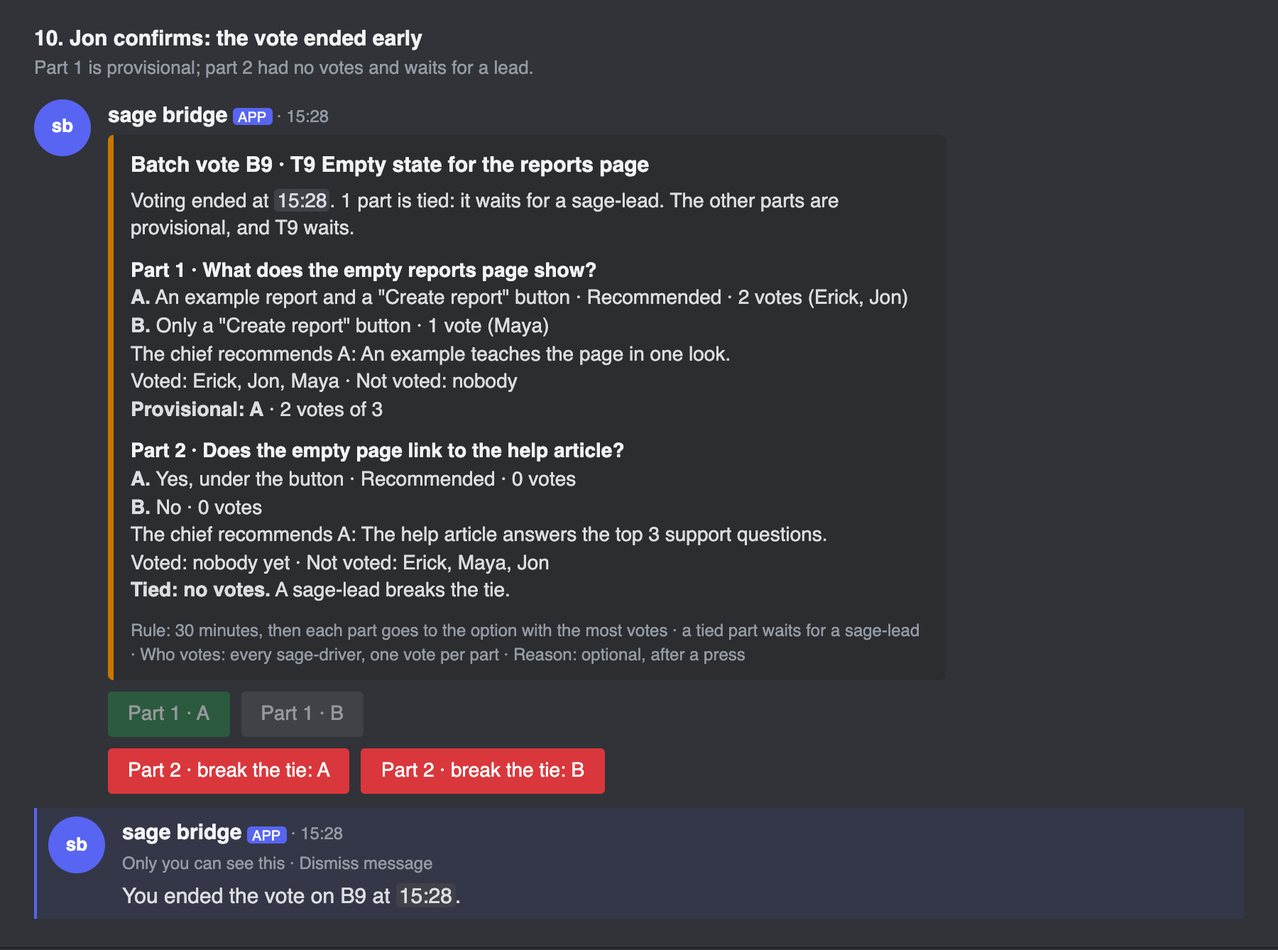
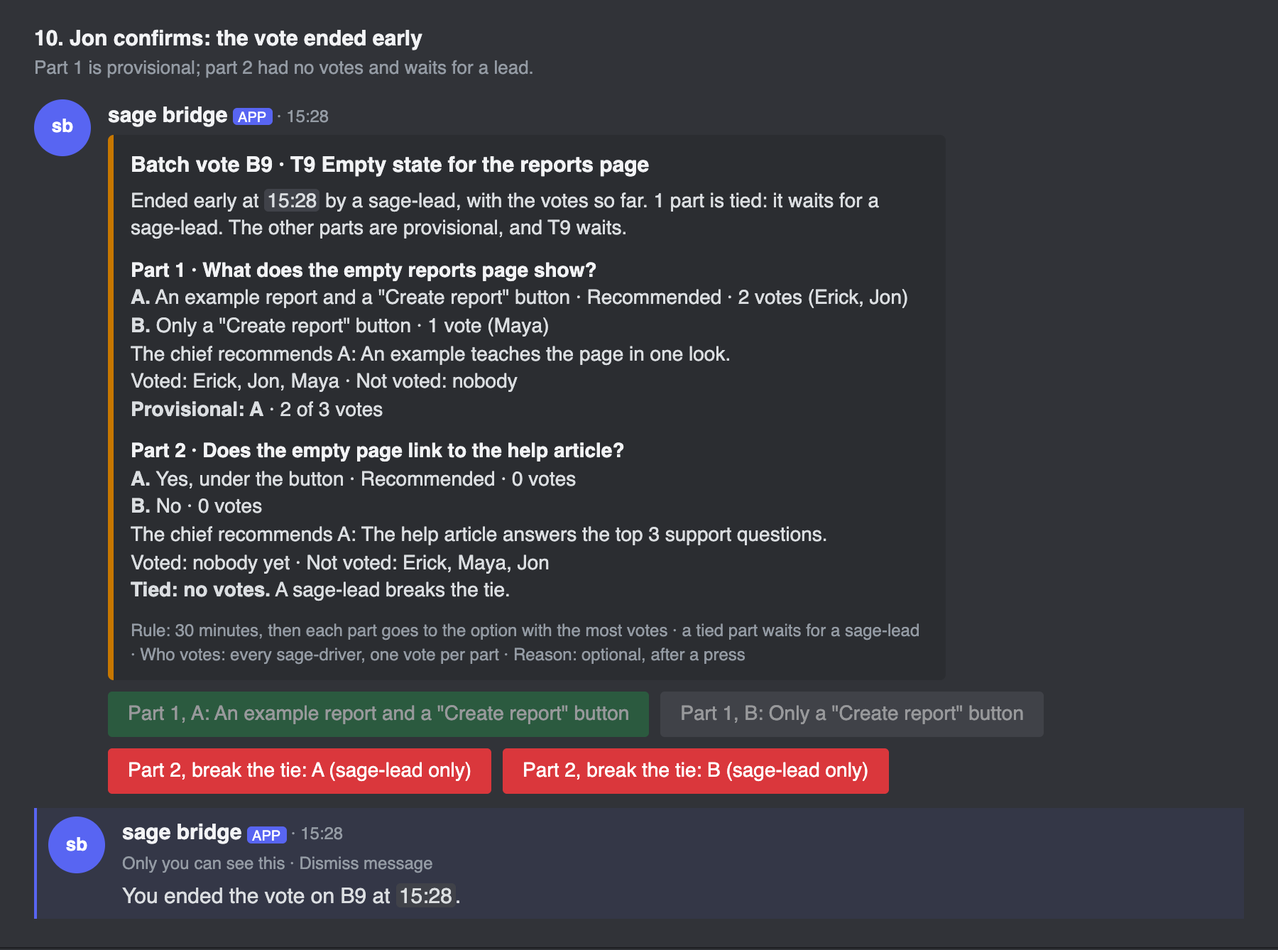
B2 preview: the confirm presses come from the private confirm; a 12th shot of a 5 x 4 x 500 card (F-T27-9)
Claude-Session: https://claude.ai/code/session_01AfkEgEcPqSXRfaYvh8fqJK

diff --git a/design/b2/index.html b/design/b2/index.html
@@ -32,50 +32,55 @@
 <section id="m3"><h2>3. The batch vote of a task</h2><p class="about">18 minutes left; Erick voted at his terminal; Jon gave a reason.</p><div class="msg"><span class="av">sb</span><div class="body"><div class="meta"><b>sage bridge</b> <span class="app">APP</span> · 14:43</div>
   <div class="embed" style="border-color:#6b4fd8"><div class="title">Batch vote B7 · T7 CSV export for reports</div><div class="desc">3 product questions of T7. Vote on each part; change your vote until the vote ends. Closes at <time>15:01</time> (<time>in 18 minutes</time>).</div>
   <div class="field"><div class="fname">Part 1 · Which columns go in the export?</div><div class="fvalue"><b>A.</b> Only the columns visible in the table · Recommended · 2 votes (Erick (terminal), Jon)<br><b>B.</b> All fields, also the hidden ones · 0 votes<br><b>C.</b> Visible columns, plus an &quot;Include hidden fields&quot; box · 0 votes<br>The chief recommends A: A matches what the user sees; B can leak internal ids.<br>Voted: Erick (terminal), Jon · Not voted: Maya<br>Ahead: A</div></div><div class="field"><div class="fname">Part 2 · How do dates look in the file?</div><div class="fvalue"><b>A.</b> 2026-10-04 (ISO) · Recommended · 1 vote (Erick (terminal))<br><b>B.</b> 04/10/2026 (the user's locale) · 1 vote (Jon)<br><b>C.</b> Both, in two columns · 0 votes<br>The chief recommends A: A sorts well and every spreadsheet reads it.<br>Voted: Erick (terminal), Jon · Not voted: Maya<br>Even so far</div></div><div class="field"><div class="fname">Part 3 · What is the file name?</div><div class="fvalue"><b>A.</b> reports-2026-10-04.csv · Recommended · 1 vote (Erick (terminal))<br><b>B.</b> The report title and the date · 1 vote (Jon)<br>The chief recommends A: A is short and sorts by date.<br>Voted: Erick (terminal), Jon · Not voted: Maya<br>Even so far</div></div><div class="field"><div class="fname">Jon, part 2</div><div class="fvalue">Our EU customers read day/month first.</div></div>
-  <div class="footer">Rule: 30 minutes, then each part goes to the option with the most votes · a tied part waits for a sage-lead · Who votes: every sage-driver, one vote per part · Reason: optional, after a press</div></div><div class="row"><button class="primary" title="press:B7:0:0">Part 1 · A</button><button class="secondary" title="press:B7:0:1">Part 1 · B</button><button class="secondary" title="press:B7:0:2">Part 1 · C</button></div><div class="row"><button class="primary" title="press:B7:1:0">Part 2 · A</button><button class="secondary" title="press:B7:1:1">Part 2 · B</button><button class="secondary" title="press:B7:1:2">Part 2 · C</button></div><div class="row"><button class="primary" title="press:B7:2:0">Part 3 · A</button><button class="secondary" title="press:B7:2:1">Part 3 · B</button></div><div class="row"><button class="danger" title="end:B7">End vote now (sage-lead only)</button></div></div></div>
+  <div class="footer">Rule: 30 minutes, then each part goes to the option with the most votes · a tied part waits for a sage-lead · Who votes: every sage-driver, one vote per part · Reason: optional, after a press</div></div><div class="row"><button class="primary" title="press:B7:0:0">Part 1, A: Only the columns visible in the table</button><button class="secondary" title="press:B7:0:1">Part 1, B: All fields, also the hidden ones</button><button class="secondary" title="press:B7:0:2">Part 1, C: Visible columns, plus an &quot;Include hidden fields&quot; box</button></div><div class="row"><button class="primary" title="press:B7:1:0">Part 2, A: 2026-10-04 (ISO)</button><button class="secondary" title="press:B7:1:1">Part 2, B: 04/10/2026 (the user's locale)</button><button class="secondary" title="press:B7:1:2">Part 2, C: Both, in two columns</button></div><div class="row"><button class="primary" title="press:B7:2:0">Part 3, A: reports-2026-10-04.csv</button><button class="secondary" title="press:B7:2:1">Part 3, B: The report title and the date</button></div><div class="row"><button class="danger" title="end:B7">End vote now (sage-lead only)</button></div></div></div>
 </section>
 <section id="m4"><h2>4. Maya votes C on part 2 and may add a reason</h2><p class="about">Her vote counts already; the form is optional.</p><div class="msg"><span class="av">sb</span><div class="body"><div class="meta"><b>sage bridge</b> <span class="app">APP</span> · 14:44</div>
   <div class="embed" style="border-color:#6b4fd8"><div class="title">Batch vote B7 · T7 CSV export for reports</div><div class="desc">3 product questions of T7. Vote on each part; change your vote until the vote ends. Closes at <time>15:01</time> (<time>in 17 minutes</time>).</div>
   <div class="field"><div class="fname">Part 1 · Which columns go in the export?</div><div class="fvalue"><b>A.</b> Only the columns visible in the table · Recommended · 2 votes (Erick (terminal), Jon)<br><b>B.</b> All fields, also the hidden ones · 0 votes<br><b>C.</b> Visible columns, plus an &quot;Include hidden fields&quot; box · 0 votes<br>The chief recommends A: A matches what the user sees; B can leak internal ids.<br>Voted: Erick (terminal), Jon · Not voted: Maya<br>Ahead: A</div></div><div class="field"><div class="fname">Part 2 · How do dates look in the file?</div><div class="fvalue"><b>A.</b> 2026-10-04 (ISO) · Recommended · 1 vote (Erick (terminal))<br><b>B.</b> 04/10/2026 (the user's locale) · 1 vote (Jon)<br><b>C.</b> Both, in two columns · 1 vote (Maya)<br>The chief recommends A: A sorts well and every spreadsheet reads it.<br>Voted: Erick (terminal), Jon, Maya · Not voted: nobody<br>Even so far</div></div><div class="field"><div class="fname">Part 3 · What is the file name?</div><div class="fvalue"><b>A.</b> reports-2026-10-04.csv · Recommended · 1 vote (Erick (terminal))<br><b>B.</b> The report title and the date · 1 vote (Jon)<br>The chief recommends A: A is short and sorts by date.<br>Voted: Erick (terminal), Jon · Not voted: Maya<br>Even so far</div></div><div class="field"><div class="fname">Jon, part 2</div><div class="fvalue">Our EU customers read day/month first.</div></div>
-  <div class="footer">Rule: 30 minutes, then each part goes to the option with the most votes · a tied part waits for a sage-lead · Who votes: every sage-driver, one vote per part · Reason: optional, after a press</div></div><div class="row"><button class="primary" title="press:B7:0:0">Part 1 · A</button><button class="secondary" title="press:B7:0:1">Part 1 · B</button><button class="secondary" title="press:B7:0:2">Part 1 · C</button></div><div class="row"><button class="primary" title="press:B7:1:0">Part 2 · A</button><button class="secondary" title="press:B7:1:1">Part 2 · B</button><button class="secondary" title="press:B7:1:2">Part 2 · C</button></div><div class="row"><button class="primary" title="press:B7:2:0">Part 3 · A</button><button class="secondary" title="press:B7:2:1">Part 3 · B</button></div><div class="row"><button class="danger" title="end:B7">End vote now (sage-lead only)</button></div></div></div>
+  <div class="footer">Rule: 30 minutes, then each part goes to the option with the most votes · a tied part waits for a sage-lead · Who votes: every sage-driver, one vote per part · Reason: optional, after a press</div></div><div class="row"><button class="primary" title="press:B7:0:0">Part 1, A: Only the columns visible in the table</button><button class="secondary" title="press:B7:0:1">Part 1, B: All fields, also the hidden ones</button><button class="secondary" title="press:B7:0:2">Part 1, C: Visible columns, plus an &quot;Include hidden fields&quot; box</button></div><div class="row"><button class="primary" title="press:B7:1:0">Part 2, A: 2026-10-04 (ISO)</button><button class="secondary" title="press:B7:1:1">Part 2, B: 04/10/2026 (the user's locale)</button><button class="secondary" title="press:B7:1:2">Part 2, C: Both, in two columns</button></div><div class="row"><button class="primary" title="press:B7:2:0">Part 3, A: reports-2026-10-04.csv</button><button class="secondary" title="press:B7:2:1">Part 3, B: The report title and the date</button></div><div class="row"><button class="danger" title="end:B7">End vote now (sage-lead only)</button></div></div></div>
 <div class="modal"><h3>Your vote counts: C. Both, in two columns</h3><label>Reason for part 2 (optional)<textarea placeholder="Everyone sees it on the card. The chief gets it as quoted text and sums up the arguments." maxlength="500"></textarea></label><div class="mbtns"><span>Cancel</span><button class="primary">Submit</button></div></div></section>
 <section id="m5"><h2>5. At 30 minutes the vote ends; part 2 is tied 1-1-1</h2><p class="about">Parts 1 and 3 are provisional; the tie-break buttons show the tied options only.</p><div class="msg"><span class="av">sb</span><div class="body"><div class="meta"><b>sage bridge</b> <span class="app">APP</span> · 15:01</div>
   <div class="embed" style="border-color:#c77700"><div class="title">Batch vote B7 · T7 CSV export for reports</div><div class="desc">Voting ended at <time>15:01</time>. 1 part is tied: it waits for a sage-lead. The other parts are provisional, and T7 waits.</div>
-  <div class="field"><div class="fname">Part 1 · Which columns go in the export?</div><div class="fvalue"><b>A.</b> Only the columns visible in the table · Recommended · 3 votes (Erick (terminal), Jon, Maya)<br><b>B.</b> All fields, also the hidden ones · 0 votes<br><b>C.</b> Visible columns, plus an &quot;Include hidden fields&quot; box · 0 votes<br>The chief recommends A: A matches what the user sees; B can leak internal ids.<br>Voted: Erick (terminal), Jon, Maya · Not voted: nobody<br><b>Provisional: A</b> · 3 votes of 3</div></div><div class="field"><div class="fname">Part 2 · How do dates look in the file?</div><div class="fvalue"><b>A.</b> 2026-10-04 (ISO) · Recommended · 1 vote (Erick (terminal))<br><b>B.</b> 04/10/2026 (the user's locale) · 1 vote (Jon)<br><b>C.</b> Both, in two columns · 1 vote (Maya)<br>The chief recommends A: A sorts well and every spreadsheet reads it.<br>Voted: Erick (terminal), Jon, Maya · Not voted: nobody<br><b>Tied: A, B, C at 1 vote each.</b> A sage-lead breaks the tie.</div></div><div class="field"><div class="fname">Part 3 · What is the file name?</div><div class="fvalue"><b>A.</b> reports-2026-10-04.csv · Recommended · 2 votes (Erick (terminal), Maya)<br><b>B.</b> The report title and the date · 1 vote (Jon)<br>The chief recommends A: A is short and sorts by date.<br>Voted: Erick (terminal), Jon, Maya · Not voted: nobody<br><b>Provisional: A</b> · 2 votes of 3</div></div><div class="field"><div class="fname">Jon, part 2</div><div class="fvalue">Our EU customers read day/month first.</div></div><div class="field"><div class="fname">Maya, part 2</div><div class="fvalue">Finance imports ISO dates; sales wants the local format. Both serve them.</div></div>
-  <div class="footer">Rule: 30 minutes, then each part goes to the option with the most votes · a tied part waits for a sage-lead · Who votes: every sage-driver, one vote per part · Reason: optional, after a press</div></div><div class="row"><button class="success" disabled title="press:B7:0:0">Part 1 · A</button><button class="secondary" disabled title="press:B7:0:1">Part 1 · B</button><button class="secondary" disabled title="press:B7:0:2">Part 1 · C</button></div><div class="row"><button class="danger" title="tiebreak:B7:1:0">Part 2 · break the tie: A</button><button class="danger" title="tiebreak:B7:1:1">Part 2 · break the tie: B</button><button class="danger" title="tiebreak:B7:1:2">Part 2 · break the tie: C</button></div><div class="row"><button class="success" disabled title="press:B7:2:0">Part 3 · A</button><button class="secondary" disabled title="press:B7:2:1">Part 3 · B</button></div></div></div>
+  <div class="field"><div class="fname">Part 1 · Which columns go in the export?</div><div class="fvalue"><b>A.</b> Only the columns visible in the table · Recommended · 3 votes (Erick (terminal), Jon, Maya)<br><b>B.</b> All fields, also the hidden ones · 0 votes<br><b>C.</b> Visible columns, plus an &quot;Include hidden fields&quot; box · 0 votes<br>The chief recommends A: A matches what the user sees; B can leak internal ids.<br>Voted: Erick (terminal), Jon, Maya · Not voted: nobody<br><b>Provisional: A</b> · 3 of 3 votes</div></div><div class="field"><div class="fname">Part 2 · How do dates look in the file?</div><div class="fvalue"><b>A.</b> 2026-10-04 (ISO) · Recommended · 1 vote (Erick (terminal))<br><b>B.</b> 04/10/2026 (the user's locale) · 1 vote (Jon)<br><b>C.</b> Both, in two columns · 1 vote (Maya)<br>The chief recommends A: A sorts well and every spreadsheet reads it.<br>Voted: Erick (terminal), Jon, Maya · Not voted: nobody<br><b>Tied: A, B, C at 1 vote each.</b> A sage-lead breaks the tie.</div></div><div class="field"><div class="fname">Part 3 · What is the file name?</div><div class="fvalue"><b>A.</b> reports-2026-10-04.csv · Recommended · 2 votes (Erick (terminal), Maya)<br><b>B.</b> The report title and the date · 1 vote (Jon)<br>The chief recommends A: A is short and sorts by date.<br>Voted: Erick (terminal), Jon, Maya · Not voted: nobody<br><b>Provisional: A</b> · 2 of 3 votes</div></div><div class="field"><div class="fname">Jon, part 2</div><div class="fvalue">Our EU customers read day/month first.</div></div><div class="field"><div class="fname">Maya, part 2</div><div class="fvalue">Finance imports ISO dates; sales wants the local format. Both serve them.</div></div>
+  <div class="footer">Rule: 30 minutes, then each part goes to the option with the most votes · a tied part waits for a sage-lead · Who votes: every sage-driver, one vote per part · Reason: optional, after a press</div></div><div class="row"><button class="success" disabled title="press:B7:0:0">Part 1, A: Only the columns visible in the table</button><button class="secondary" disabled title="press:B7:0:1">Part 1, B: All fields, also the hidden ones</button><button class="secondary" disabled title="press:B7:0:2">Part 1, C: Visible columns, plus an &quot;Include hidden fields&quot; box</button></div><div class="row"><button class="danger" title="tiebreak:B7:1:0">Part 2, break the tie: A (sage-lead only)</button><button class="danger" title="tiebreak:B7:1:1">Part 2, break the tie: B (sage-lead only)</button><button class="danger" title="tiebreak:B7:1:2">Part 2, break the tie: C (sage-lead only)</button></div><div class="row"><button class="success" disabled title="press:B7:2:0">Part 3, A: reports-2026-10-04.csv</button><button class="secondary" disabled title="press:B7:2:1">Part 3, B: The report title and the date</button></div></div></div>
 </section>
 <section id="m6"><h2>6. Jon, a lead, breaks the tie: the batch is decided</h2><p class="about">Every part is decided; T7 goes on.</p><div class="msg"><span class="av">sb</span><div class="body"><div class="meta"><b>sage bridge</b> <span class="app">APP</span> · 17:05</div>
   <div class="embed" style="border-color:#2e8b57"><div class="title">Batch vote B7 · T7 CSV export for reports</div><div class="desc">Voting ended at <time>15:01</time>. Closed: every part is decided. T7 goes on.</div>
-  <div class="field"><div class="fname">Part 1 · Which columns go in the export?</div><div class="fvalue"><b>A.</b> Only the columns visible in the table · Recommended · 3 votes (Erick (terminal), Jon, Maya)<br><b>B.</b> All fields, also the hidden ones · 0 votes<br><b>C.</b> Visible columns, plus an &quot;Include hidden fields&quot; box · 0 votes<br>The chief recommends A: A matches what the user sees; B can leak internal ids.<br>Voted: Erick (terminal), Jon, Maya · Not voted: nobody<br><b>Decided: A</b> · 3 votes of 3</div></div><div class="field"><div class="fname">Part 2 · How do dates look in the file?</div><div class="fvalue"><b>A.</b> 2026-10-04 (ISO) · Recommended · 1 vote (Erick (terminal))<br><b>B.</b> 04/10/2026 (the user's locale) · 1 vote (Jon)<br><b>C.</b> Both, in two columns · 1 vote (Maya)<br>The chief recommends A: A sorts well and every spreadsheet reads it.<br>Voted: Erick (terminal), Jon, Maya · Not voted: nobody<br><b>Decided: A</b> · tie broken by a sage-lead</div></div><div class="field"><div class="fname">Part 3 · What is the file name?</div><div class="fvalue"><b>A.</b> reports-2026-10-04.csv · Recommended · 2 votes (Erick (terminal), Maya)<br><b>B.</b> The report title and the date · 1 vote (Jon)<br>The chief recommends A: A is short and sorts by date.<br>Voted: Erick (terminal), Jon, Maya · Not voted: nobody<br><b>Decided: A</b> · 2 votes of 3</div></div><div class="field"><div class="fname">Jon, part 2</div><div class="fvalue">Our EU customers read day/month first.</div></div><div class="field"><div class="fname">Maya, part 2</div><div class="fvalue">Finance imports ISO dates; sales wants the local format. Both serve them.</div></div>
-  <div class="footer">Rule: 30 minutes, then each part goes to the option with the most votes · a tied part waits for a sage-lead · Who votes: every sage-driver, one vote per part · Reason: optional, after a press</div></div><div class="row"><button class="success" disabled title="press:B7:0:0">Part 1 · A</button><button class="secondary" disabled title="press:B7:0:1">Part 1 · B</button><button class="secondary" disabled title="press:B7:0:2">Part 1 · C</button></div><div class="row"><button class="success" disabled title="press:B7:1:0">Part 2 · A</button><button class="secondary" disabled title="press:B7:1:1">Part 2 · B</button><button class="secondary" disabled title="press:B7:1:2">Part 2 · C</button></div><div class="row"><button class="success" disabled title="press:B7:2:0">Part 3 · A</button><button class="secondary" disabled title="press:B7:2:1">Part 3 · B</button></div></div></div>
+  <div class="field"><div class="fname">Part 1 · Which columns go in the export?</div><div class="fvalue"><b>A.</b> Only the columns visible in the table · Recommended · 3 votes (Erick (terminal), Jon, Maya)<br><b>B.</b> All fields, also the hidden ones · 0 votes<br><b>C.</b> Visible columns, plus an &quot;Include hidden fields&quot; box · 0 votes<br>The chief recommends A: A matches what the user sees; B can leak internal ids.<br>Voted: Erick (terminal), Jon, Maya · Not voted: nobody<br><b>Decided: A</b> · 3 of 3 votes</div></div><div class="field"><div class="fname">Part 2 · How do dates look in the file?</div><div class="fvalue"><b>A.</b> 2026-10-04 (ISO) · Recommended · 1 vote (Erick (terminal))<br><b>B.</b> 04/10/2026 (the user's locale) · 1 vote (Jon)<br><b>C.</b> Both, in two columns · 1 vote (Maya)<br>The chief recommends A: A sorts well and every spreadsheet reads it.<br>Voted: Erick (terminal), Jon, Maya · Not voted: nobody<br><b>Decided: A</b> · tie broken by a sage-lead</div></div><div class="field"><div class="fname">Part 3 · What is the file name?</div><div class="fvalue"><b>A.</b> reports-2026-10-04.csv · Recommended · 2 votes (Erick (terminal), Maya)<br><b>B.</b> The report title and the date · 1 vote (Jon)<br>The chief recommends A: A is short and sorts by date.<br>Voted: Erick (terminal), Jon, Maya · Not voted: nobody<br><b>Decided: A</b> · 2 of 3 votes</div></div><div class="field"><div class="fname">Jon, part 2</div><div class="fvalue">Our EU customers read day/month first.</div></div><div class="field"><div class="fname">Maya, part 2</div><div class="fvalue">Finance imports ISO dates; sales wants the local format. Both serve them.</div></div>
+  <div class="footer">Rule: 30 minutes, then each part goes to the option with the most votes · a tied part waits for a sage-lead · Who votes: every sage-driver, one vote per part · Reason: optional, after a press</div></div><div class="row"><button class="success" disabled title="press:B7:0:0">Part 1, A: Only the columns visible in the table</button><button class="secondary" disabled title="press:B7:0:1">Part 1, B: All fields, also the hidden ones</button><button class="secondary" disabled title="press:B7:0:2">Part 1, C: Visible columns, plus an &quot;Include hidden fields&quot; box</button></div><div class="row"><button class="success" disabled title="press:B7:1:0">Part 2, A: 2026-10-04 (ISO)</button><button class="secondary" disabled title="press:B7:1:1">Part 2, B: 04/10/2026 (the user's locale)</button><button class="secondary" disabled title="press:B7:1:2">Part 2, C: Both, in two columns</button></div><div class="row"><button class="success" disabled title="press:B7:2:0">Part 3, A: reports-2026-10-04.csv</button><button class="secondary" disabled title="press:B7:2:1">Part 3, B: The report title and the date</button></div></div></div>
 </section>
 <section id="m7"><h2>7. Jon, a lead, presses End vote now</h2><p class="about">The private confirm says what each part gets with the votes so far.</p><div class="msg"><span class="av">sb</span><div class="body"><div class="meta"><b>sage bridge</b> <span class="app">APP</span> · 15:28</div>
   <div class="embed" style="border-color:#6b4fd8"><div class="title">Batch vote B9 · T9 Empty state for the reports page</div><div class="desc">2 product questions of T9. Vote on each part; change your vote until the vote ends. Closes at <time>15:40</time> (<time>in 12 minutes</time>).</div>
   <div class="field"><div class="fname">Part 1 · What does the empty reports page show?</div><div class="fvalue"><b>A.</b> An example report and a &quot;Create report&quot; button · Recommended · 2 votes (Erick, Jon)<br><b>B.</b> Only a &quot;Create report&quot; button · 1 vote (Maya)<br>The chief recommends A: An example teaches the page in one look.<br>Voted: Erick, Jon, Maya · Not voted: nobody<br>Ahead: A</div></div><div class="field"><div class="fname">Part 2 · Does the empty page link to the help article?</div><div class="fvalue"><b>A.</b> Yes, under the button · Recommended · 0 votes<br><b>B.</b> No · 0 votes<br>The chief recommends A: The help article answers the top 3 support questions.<br>Voted: nobody yet · Not voted: Erick, Maya, Jon<br>No votes yet</div></div>
-  <div class="footer">Rule: 30 minutes, then each part goes to the option with the most votes · a tied part waits for a sage-lead · Who votes: every sage-driver, one vote per part · Reason: optional, after a press</div></div><div class="row"><button class="primary" title="press:B9:0:0">Part 1 · A</button><button class="secondary" title="press:B9:0:1">Part 1 · B</button></div><div class="row"><button class="primary" title="press:B9:1:0">Part 2 · A</button><button class="secondary" title="press:B9:1:1">Part 2 · B</button></div><div class="row"><button class="danger" title="end:B9">End vote now (sage-lead only)</button></div></div></div>
+  <div class="footer">Rule: 30 minutes, then each part goes to the option with the most votes · a tied part waits for a sage-lead · Who votes: every sage-driver, one vote per part · Reason: optional, after a press</div></div><div class="row"><button class="primary" title="press:B9:0:0">Part 1, A: An example report and a &quot;Create report&quot; button</button><button class="secondary" title="press:B9:0:1">Part 1, B: Only a &quot;Create report&quot; button</button></div><div class="row"><button class="primary" title="press:B9:1:0">Part 2, A: Yes, under the button</button><button class="secondary" title="press:B9:1:1">Part 2, B: No</button></div><div class="row"><button class="danger" title="end:B9">End vote now (sage-lead only)</button></div></div></div>
 <div class="msg eph"><span class="av">sb</span><div class="body"><div class="meta"><b>sage bridge</b> <span class="app">APP</span> · 15:28</div>
-  <div class="ephnote">Only you can see this · Dismiss message</div><div><b>End B9 now?</b><br>Part 1 goes to A: 2 votes of 3 (Erick, Jon).<br>Part 2 has no votes. It stays open until a sage-lead breaks the tie.<br>Nobody can vote after this.</div><div class="row"><button class="danger" title="end!:B9">End vote now</button><button class="secondary" title="cancel:B9">Cancel</button></div></div></div></section>
+  <div class="ephnote">Only you can see this · Dismiss message</div><div><b>End B9 now?</b><br>Part 1 goes to A: 2 of 3 votes (Erick, Jon).<br>Part 2 has no votes. It stays open until a sage-lead breaks the tie.<br>Nobody can vote after this.</div><div class="row"><button class="secondary" title="cancel:B9">Cancel</button><button class="danger" title="end!:B9">End vote now</button></div></div></div></section>
 <section id="m8"><h2>8. Maya is not a lead and presses End vote now</h2><p class="about">Discord shows every button to everyone; only a lead can end the vote.</p><div class="msg"><span class="av">sb</span><div class="body"><div class="meta"><b>sage bridge</b> <span class="app">APP</span> · 15:28</div>
   <div class="embed" style="border-color:#6b4fd8"><div class="title">Batch vote B9 · T9 Empty state for the reports page</div><div class="desc">2 product questions of T9. Vote on each part; change your vote until the vote ends. Closes at <time>15:40</time> (<time>in 12 minutes</time>).</div>
   <div class="field"><div class="fname">Part 1 · What does the empty reports page show?</div><div class="fvalue"><b>A.</b> An example report and a &quot;Create report&quot; button · Recommended · 2 votes (Erick, Jon)<br><b>B.</b> Only a &quot;Create report&quot; button · 1 vote (Maya)<br>The chief recommends A: An example teaches the page in one look.<br>Voted: Erick, Jon, Maya · Not voted: nobody<br>Ahead: A</div></div><div class="field"><div class="fname">Part 2 · Does the empty page link to the help article?</div><div class="fvalue"><b>A.</b> Yes, under the button · Recommended · 0 votes<br><b>B.</b> No · 0 votes<br>The chief recommends A: The help article answers the top 3 support questions.<br>Voted: nobody yet · Not voted: Erick, Maya, Jon<br>No votes yet</div></div>
-  <div class="footer">Rule: 30 minutes, then each part goes to the option with the most votes · a tied part waits for a sage-lead · Who votes: every sage-driver, one vote per part · Reason: optional, after a press</div></div><div class="row"><button class="primary" title="press:B9:0:0">Part 1 · A</button><button class="secondary" title="press:B9:0:1">Part 1 · B</button></div><div class="row"><button class="primary" title="press:B9:1:0">Part 2 · A</button><button class="secondary" title="press:B9:1:1">Part 2 · B</button></div><div class="row"><button class="danger" title="end:B9">End vote now (sage-lead only)</button></div></div></div>
+  <div class="footer">Rule: 30 minutes, then each part goes to the option with the most votes · a tied part waits for a sage-lead · Who votes: every sage-driver, one vote per part · Reason: optional, after a press</div></div><div class="row"><button class="primary" title="press:B9:0:0">Part 1, A: An example report and a &quot;Create report&quot; button</button><button class="secondary" title="press:B9:0:1">Part 1, B: Only a &quot;Create report&quot; button</button></div><div class="row"><button class="primary" title="press:B9:1:0">Part 2, A: Yes, under the button</button><button class="secondary" title="press:B9:1:1">Part 2, B: No</button></div><div class="row"><button class="danger" title="end:B9">End vote now (sage-lead only)</button></div></div></div>
 <div class="msg eph"><span class="av">sb</span><div class="body"><div class="meta"><b>sage bridge</b> <span class="app">APP</span> · 15:28</div>
   <div class="ephnote">Only you can see this · Dismiss message</div><div>Only a sage-lead can do this. Your votes on the parts count like everyone's.</div></div></div></section>
 <section id="m9"><h2>9. Sam has no role and presses a button</h2><p class="about">The tally does not change; only Sam sees the note.</p><div class="msg"><span class="av">sb</span><div class="body"><div class="meta"><b>sage bridge</b> <span class="app">APP</span> · 15:29</div>
   <div class="embed" style="border-color:#6b4fd8"><div class="title">Batch vote B9 · T9 Empty state for the reports page</div><div class="desc">2 product questions of T9. Vote on each part; change your vote until the vote ends. Closes at <time>15:40</time> (<time>in 11 minutes</time>).</div>
   <div class="field"><div class="fname">Part 1 · What does the empty reports page show?</div><div class="fvalue"><b>A.</b> An example report and a &quot;Create report&quot; button · Recommended · 2 votes (Erick, Jon)<br><b>B.</b> Only a &quot;Create report&quot; button · 1 vote (Maya)<br>The chief recommends A: An example teaches the page in one look.<br>Voted: Erick, Jon, Maya · Not voted: nobody<br>Ahead: A</div></div><div class="field"><div class="fname">Part 2 · Does the empty page link to the help article?</div><div class="fvalue"><b>A.</b> Yes, under the button · Recommended · 0 votes<br><b>B.</b> No · 0 votes<br>The chief recommends A: The help article answers the top 3 support questions.<br>Voted: nobody yet · Not voted: Erick, Maya, Jon<br>No votes yet</div></div>
-  <div class="footer">Rule: 30 minutes, then each part goes to the option with the most votes · a tied part waits for a sage-lead · Who votes: every sage-driver, one vote per part · Reason: optional, after a press</div></div><div class="row"><button class="primary" title="press:B9:0:0">Part 1 · A</button><button class="secondary" title="press:B9:0:1">Part 1 · B</button></div><div class="row"><button class="primary" title="press:B9:1:0">Part 2 · A</button><button class="secondary" title="press:B9:1:1">Part 2 · B</button></div><div class="row"><button class="danger" title="end:B9">End vote now (sage-lead only)</button></div></div></div>
+  <div class="footer">Rule: 30 minutes, then each part goes to the option with the most votes · a tied part waits for a sage-lead · Who votes: every sage-driver, one vote per part · Reason: optional, after a press</div></div><div class="row"><button class="primary" title="press:B9:0:0">Part 1, A: An example report and a &quot;Create report&quot; button</button><button class="secondary" title="press:B9:0:1">Part 1, B: Only a &quot;Create report&quot; button</button></div><div class="row"><button class="primary" title="press:B9:1:0">Part 2, A: Yes, under the button</button><button class="secondary" title="press:B9:1:1">Part 2, B: No</button></div><div class="row"><button class="danger" title="end:B9">End vote now (sage-lead only)</button></div></div></div>
 <div class="msg eph"><span class="av">sb</span><div class="body"><div class="meta"><b>sage bridge</b> <span class="app">APP</span> · 15:29</div>
   <div class="ephnote">Only you can see this · Dismiss message</div><div>Your press did not count. Only people with the sage-driver role can answer or vote. You can still read this thread.</div></div></div></section>
 <section id="m10"><h2>10. Jon confirms: the vote ended early</h2><p class="about">Part 1 is provisional; part 2 had no votes and waits for a lead.</p><div class="msg"><span class="av">sb</span><div class="body"><div class="meta"><b>sage bridge</b> <span class="app">APP</span> · 15:28</div>
-  <div class="embed" style="border-color:#c77700"><div class="title">Batch vote B9 · T9 Empty state for the reports page</div><div class="desc">Voting ended at <time>15:28</time>. 1 part is tied: it waits for a sage-lead. The other parts are provisional, and T9 waits.</div>
-  <div class="field"><div class="fname">Part 1 · What does the empty reports page show?</div><div class="fvalue"><b>A.</b> An example report and a &quot;Create report&quot; button · Recommended · 2 votes (Erick, Jon)<br><b>B.</b> Only a &quot;Create report&quot; button · 1 vote (Maya)<br>The chief recommends A: An example teaches the page in one look.<br>Voted: Erick, Jon, Maya · Not voted: nobody<br><b>Provisional: A</b> · 2 votes of 3</div></div><div class="field"><div class="fname">Part 2 · Does the empty page link to the help article?</div><div class="fvalue"><b>A.</b> Yes, under the button · Recommended · 0 votes<br><b>B.</b> No · 0 votes<br>The chief recommends A: The help article answers the top 3 support questions.<br>Voted: nobody yet · Not voted: Erick, Maya, Jon<br><b>Tied: no votes.</b> A sage-lead breaks the tie.</div></div>
-  <div class="footer">Rule: 30 minutes, then each part goes to the option with the most votes · a tied part waits for a sage-lead · Who votes: every sage-driver, one vote per part · Reason: optional, after a press</div></div><div class="row"><button class="success" disabled title="press:B9:0:0">Part 1 · A</button><button class="secondary" disabled title="press:B9:0:1">Part 1 · B</button></div><div class="row"><button class="danger" title="tiebreak:B9:1:0">Part 2 · break the tie: A</button><button class="danger" title="tiebreak:B9:1:1">Part 2 · break the tie: B</button></div></div></div>
+  <div class="embed" style="border-color:#c77700"><div class="title">Batch vote B9 · T9 Empty state for the reports page</div><div class="desc">Ended early at <time>15:28</time> by a sage-lead, with the votes so far. 1 part is tied: it waits for a sage-lead. The other parts are provisional, and T9 waits.</div>
+  <div class="field"><div class="fname">Part 1 · What does the empty reports page show?</div><div class="fvalue"><b>A.</b> An example report and a &quot;Create report&quot; button · Recommended · 2 votes (Erick, Jon)<br><b>B.</b> Only a &quot;Create report&quot; button · 1 vote (Maya)<br>The chief recommends A: An example teaches the page in one look.<br>Voted: Erick, Jon, Maya · Not voted: nobody<br><b>Provisional: A</b> · 2 of 3 votes</div></div><div class="field"><div class="fname">Part 2 · Does the empty page link to the help article?</div><div class="fvalue"><b>A.</b> Yes, under the button · Recommended · 0 votes<br><b>B.</b> No · 0 votes<br>The chief recommends A: The help article answers the top 3 support questions.<br>Voted: nobody yet · Not voted: Erick, Maya, Jon<br><b>Tied: no votes.</b> A sage-lead breaks the tie.</div></div>
+  <div class="footer">Rule: 30 minutes, then each part goes to the option with the most votes · a tied part waits for a sage-lead · Who votes: every sage-driver, one vote per part · Reason: optional, after a press</div></div><div class="row"><button class="success" disabled title="press:B9:0:0">Part 1, A: An example report and a &quot;Create report&quot; button</button><button class="secondary" disabled title="press:B9:0:1">Part 1, B: Only a &quot;Create report&quot; button</button></div><div class="row"><button class="danger" title="tiebreak:B9:1:0">Part 2, break the tie: A (sage-lead only)</button><button class="danger" title="tiebreak:B9:1:1">Part 2, break the tie: B (sage-lead only)</button></div></div></div>
 <div class="msg eph"><span class="av">sb</span><div class="body"><div class="meta"><b>sage bridge</b> <span class="app">APP</span> · 15:28</div>
   <div class="ephnote">Only you can see this · Dismiss message</div><div>You ended the vote on B9 at <time>15:28</time>.</div></div></div></section>
 <section id="m11"><h2>11. Erick withdraws B9</h2><p class="about">Nothing is decided; every button is off.</p><div class="msg"><span class="av">sb</span><div class="body"><div class="meta"><b>sage bridge</b> <span class="app">APP</span> · 15:30</div>
   <div class="embed" style="border-color:#8a8a8a"><div class="title">Batch vote B9 · T9 Empty state for the reports page</div><div class="desc"><b>Withdrawn by Erick at <time>15:30</time>.</b> Closed: nothing is decided.</div>
   <div class="field"><div class="fname">Part 1 · What does the empty reports page show?</div><div class="fvalue"><b>A.</b> An example report and a &quot;Create report&quot; button · Recommended · 2 votes (Erick, Jon)<br><b>B.</b> Only a &quot;Create report&quot; button · 1 vote (Maya)<br>The chief recommends A: An example teaches the page in one look.<br>Voted: Erick, Jon, Maya · Not voted: nobody</div></div><div class="field"><div class="fname">Part 2 · Does the empty page link to the help article?</div><div class="fvalue"><b>A.</b> Yes, under the button · Recommended · 0 votes<br><b>B.</b> No · 0 votes<br>The chief recommends A: The help article answers the top 3 support questions.<br>Voted: nobody yet · Not voted: Erick, Maya, Jon</div></div>
-  <div class="footer">Rule: 30 minutes, then each part goes to the option with the most votes · a tied part waits for a sage-lead · Who votes: every sage-driver, one vote per part · Reason: optional, after a press</div></div><div class="row"><button class="primary" disabled title="press:B9:0:0">Part 1 · A</button><button class="secondary" disabled title="press:B9:0:1">Part 1 · B</button></div><div class="row"><button class="primary" disabled title="press:B9:1:0">Part 2 · A</button><button class="secondary" disabled title="press:B9:1:1">Part 2 · B</button></div></div></div>
+  <div class="footer">Rule: 30 minutes, then each part goes to the option with the most votes · a tied part waits for a sage-lead · Who votes: every sage-driver, one vote per part · Reason: optional, after a press</div></div><div class="row"><button class="primary" disabled title="press:B9:0:0">Part 1, A: An example report and a &quot;Create report&quot; button</button><button class="secondary" disabled title="press:B9:0:1">Part 1, B: Only a &quot;Create report&quot; button</button></div><div class="row"><button class="primary" disabled title="press:B9:1:0">Part 2, A: Yes, under the button</button><button class="secondary" disabled title="press:B9:1:1">Part 2, B: No</button></div></div></div>
+</section>
+<section id="m12"><h2>12. A team of 5, 4 parts, a 500-character reason from everyone on every part</h2><p class="about">Each reason shows cut to 200 characters; the gate keeps the full text. 24 fields of 25; 5701 characters of 6000.</p><div class="msg"><span class="av">sb</span><div class="body"><div class="meta"><b>sage bridge</b> <span class="app">APP</span> · 16:21</div>
+  <div class="embed" style="border-color:#6b4fd8"><div class="title">Batch vote B12 · T12 Four questions, every reason at 500 characters</div><div class="desc">4 product questions of T12. Vote on each part; change your vote until the vote ends. Closes at <time>16:30</time> (<time>in 9 minutes</time>).</div>
+  <div class="field"><div class="fname">Part 1 · Question 1 of the batch?</div><div class="fvalue"><b>A.</b> Option A · Recommended · 2 votes (Erick, Ana)<br><b>B.</b> Option B · 2 votes (Maya, Lea)<br><b>C.</b> Option C · 1 vote (Jon)<br>The chief recommends A: A is the smallest change.<br>Voted: Erick, Maya, Jon, Ana, Lea · Not voted: nobody<br>Even so far</div></div><div class="field"><div class="fname">Part 2 · Question 2 of the batch?</div><div class="fvalue"><b>A.</b> Option A · Recommended · 2 votes (Erick, Ana)<br><b>B.</b> Option B · 2 votes (Maya, Lea)<br><b>C.</b> Option C · 1 vote (Jon)<br>The chief recommends A: A is the smallest change.<br>Voted: Erick, Maya, Jon, Ana, Lea · Not voted: nobody<br>Even so far</div></div><div class="field"><div class="fname">Part 3 · Question 3 of the batch?</div><div class="fvalue"><b>A.</b> Option A · Recommended · 2 votes (Erick, Ana)<br><b>B.</b> Option B · 2 votes (Maya, Lea)<br><b>C.</b> Option C · 1 vote (Jon)<br>The chief recommends A: A is the smallest change.<br>Voted: Erick, Maya, Jon, Ana, Lea · Not voted: nobody<br>Even so far</div></div><div class="field"><div class="fname">Part 4 · Question 4 of the batch?</div><div class="fvalue"><b>A.</b> Option A · Recommended · 2 votes (Erick, Ana)<br><b>B.</b> Option B · 2 votes (Maya, Lea)<br><b>C.</b> Option C · 1 vote (Jon)<br>The chief recommends A: A is the smallest change.<br>Voted: Erick, Maya, Jon, Ana, Lea · Not voted: nobody<br>Even so far</div></div><div class="field"><div class="fname">Erick, part 1</div><div class="fvalue">Erick, part 1: The reason text of one holder on one part, 500 characters long, as the form allows at most. The reason text of one holder on one part, 500 characters long, as the form allows at most. …</div></div><div class="field"><div class="fname">Maya, part 1</div><div class="fvalue">Maya, part 1: The reason text of one holder on one part, 500 characters long, as the form allows at most. The reason text of one holder on one part, 500 characters long, as the form allows at most. T…</div></div><div class="field"><div class="fname">Jon, part 1</div><div class="fvalue">Jon, part 1: The reason text of one holder on one part, 500 characters long, as the form allows at most. The reason text of one holder on one part, 500 characters long, as the form allows at most. Th…</div></div><div class="field"><div class="fname">Ana, part 1</div><div class="fvalue">Ana, part 1: The reason text of one holder on one part, 500 characters long, as the form allows at most. The reason text of one holder on one part, 500 characters long, as the form allows at most. Th…</div></div><div class="field"><div class="fname">Lea, part 1</div><div class="fvalue">Lea, part 1: The reason text of one holder on one part, 500 characters long, as the form allows at most. The reason text of one holder on one part, 500 characters long, as the form allows at most. Th…</div></div><div class="field"><div class="fname">Erick, part 2</div><div class="fvalue">Erick, part 2: The reason text of one holder on one part, 500 characters long, as the form allows at most. The reason text of one holder on one part, 500 characters long, as the form allows at most. …</div></div><div class="field"><div class="fname">Maya, part 2</div><div class="fvalue">Maya, part 2: The reason text of one holder on one part, 500 characters long, as the form allows at most. The reason text of one holder on one part, 500 characters long, as the form allows at most. T…</div></div><div class="field"><div class="fname">Jon, part 2</div><div class="fvalue">Jon, part 2: The reason text of one holder on one part, 500 characters long, as the form allows at most. The reason text of one holder on one part, 500 characters long, as the form allows at most. Th…</div></div><div class="field"><div class="fname">Ana, part 2</div><div class="fvalue">Ana, part 2: The reason text of one holder on one part, 500 characters long, as the form allows at most. The reason text of one holder on one part, 500 characters long, as the form allows at most. Th…</div></div><div class="field"><div class="fname">Lea, part 2</div><div class="fvalue">Lea, part 2: The reason text of one holder on one part, 500 characters long, as the form allows at most. The reason text of one holder on one part, 500 characters long, as the form allows at most. Th…</div></div><div class="field"><div class="fname">Erick, part 3</div><div class="fvalue">Erick, part 3: The reason text of one holder on one part, 500 characters long, as the form allows at most. The reason text of one holder on one part, 500 characters long, as the form allows at most. …</div></div><div class="field"><div class="fname">Maya, part 3</div><div class="fvalue">Maya, part 3: The reason text of one holder on one part, 500 characters long, as the form allows at most. The reason text of one holder on one part, 500 characters long, as the form allows at most. T…</div></div><div class="field"><div class="fname">Jon, part 3</div><div class="fvalue">Jon, part 3: The reason text of one holder on one part, 500 characters long, as the form allows at most. The reason text of one holder on one part, 500 characters long, as the form allows at most. Th…</div></div><div class="field"><div class="fname">Ana, part 3</div><div class="fvalue">Ana, part 3: The reason text of one holder on one part, 500 characters long, as the form allows at most. The reason text of one holder on one part, 500 characters long, as the form allows at most. Th…</div></div><div class="field"><div class="fname">Lea, part 3</div><div class="fvalue">Lea, part 3: The reason text of one holder on one part, 500 characters long, as the form allows at most. The reason text of one holder on one part, 500 characters long, as the form allows at most. Th…</div></div><div class="field"><div class="fname">Erick, part 4</div><div class="fvalue">Erick, part 4: The reason text of one holder on one part, 500 characters long, as the form allows at most. The reason text of one holder on one part, 500 characters long, as the form allows at most. …</div></div><div class="field"><div class="fname">Maya, part 4</div><div class="fvalue">Maya, part 4: The reason text of one holder on one part, 500 characters long, as the form allows at most. The reason text of one holder on one part, 500 characters long, as the form allows at most. T…</div></div><div class="field"><div class="fname">Jon, part 4</div><div class="fvalue">Jon, part 4: The reason text of one holder on one part, 500 characters long, as the form allows at most. The reason text of one holder on one part, 500 characters long, as the form allows at most. Th…</div></div><div class="field"><div class="fname">Ana, part 4</div><div class="fvalue">Ana, part 4: The reason text of one holder on one part, 500 characters long, as the form allows at most. The reason text of one holder on one part, 500 characters long, as the form allows at most. Th…</div></div><div class="field"><div class="fname">Lea, part 4</div><div class="fvalue">Lea, part 4: The reason text of one holder on one part, 500 characters long, as the form allows at most. The reason text of one holder on one part, 500 characters long, as the form allows at most. Th…</div></div>
+  <div class="footer">Rule: 30 minutes, then each part goes to the option with the most votes · a tied part waits for a sage-lead · Who votes: every sage-driver, one vote per part · Reason: optional, after a press</div></div><div class="row"><button class="primary" title="press:B12:0:0">Part 1, A: Option A</button><button class="secondary" title="press:B12:0:1">Part 1, B: Option B</button><button class="secondary" title="press:B12:0:2">Part 1, C: Option C</button></div><div class="row"><button class="primary" title="press:B12:1:0">Part 2, A: Option A</button><button class="secondary" title="press:B12:1:1">Part 2, B: Option B</button><button class="secondary" title="press:B12:1:2">Part 2, C: Option C</button></div><div class="row"><button class="primary" title="press:B12:2:0">Part 3, A: Option A</button><button class="secondary" title="press:B12:2:1">Part 3, B: Option B</button><button class="secondary" title="press:B12:2:2">Part 3, C: Option C</button></div><div class="row"><button class="primary" title="press:B12:3:0">Part 4, A: Option A</button><button class="secondary" title="press:B12:3:1">Part 4, B: Option B</button><button class="secondary" title="press:B12:3:2">Part 4, C: Option C</button></div><div class="row"><button class="danger" title="end:B12">End vote now (sage-lead only)</button></div></div></div>
 </section>
 </body></html>
